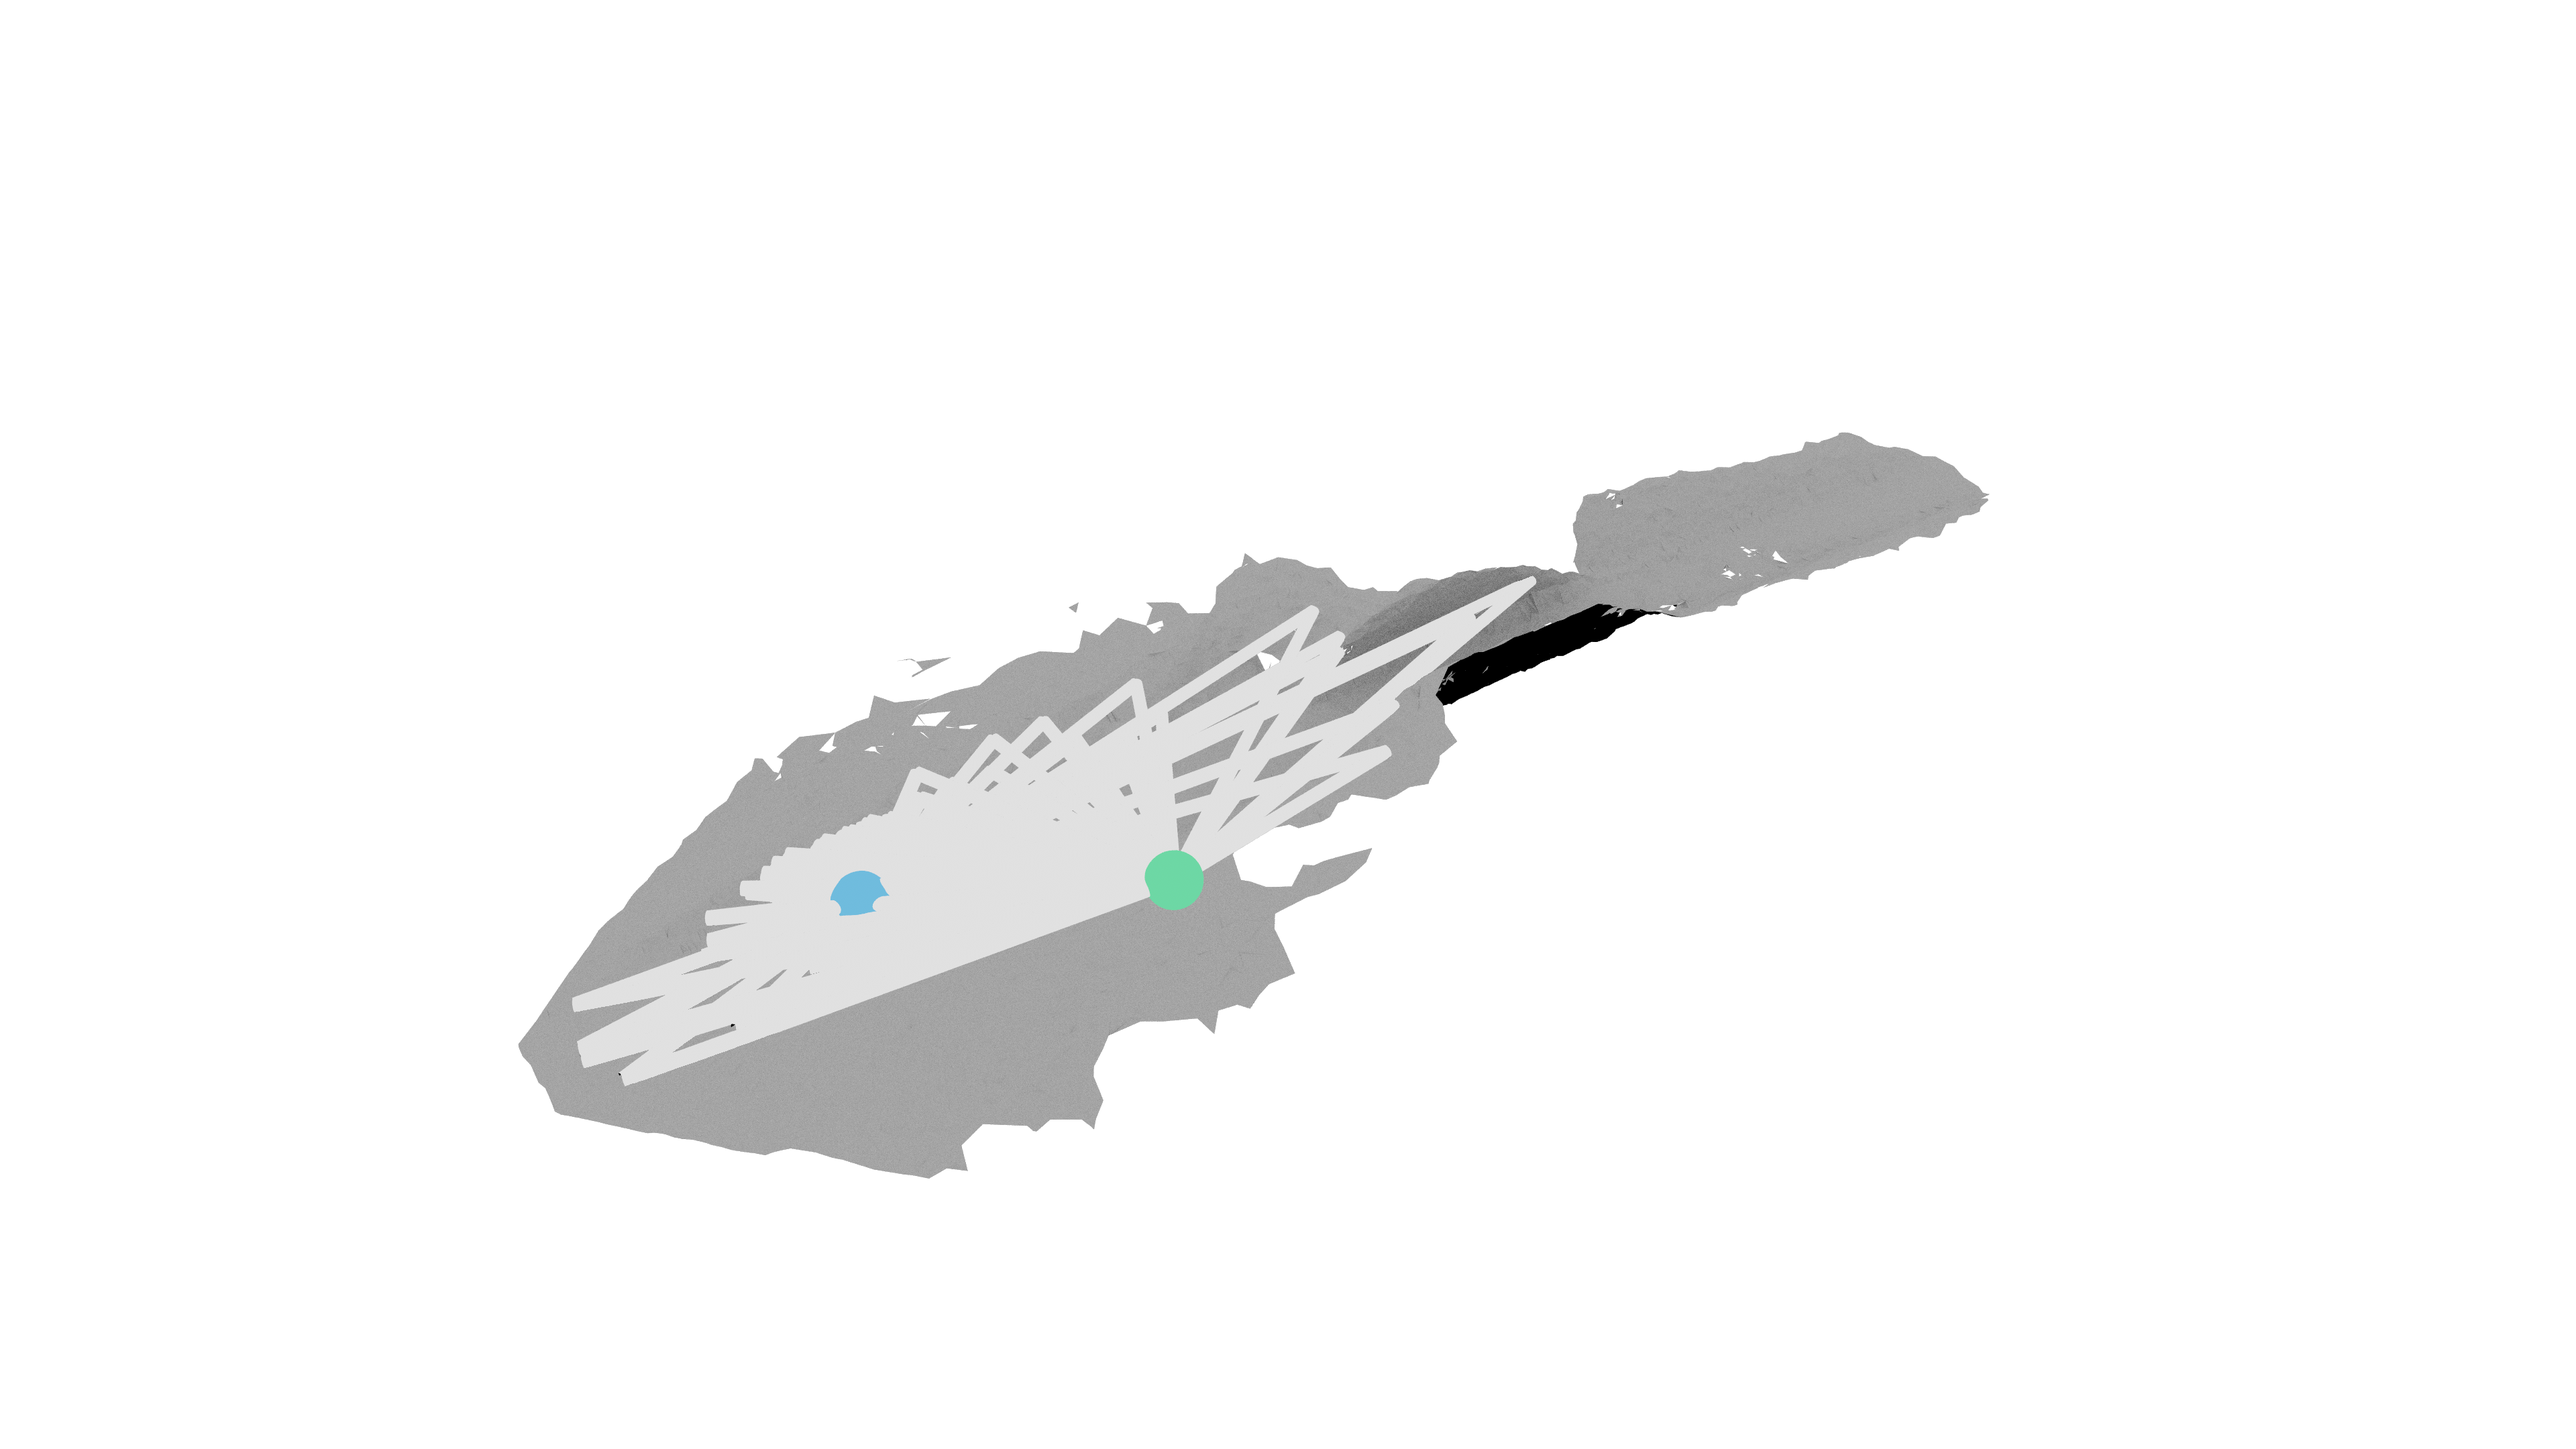
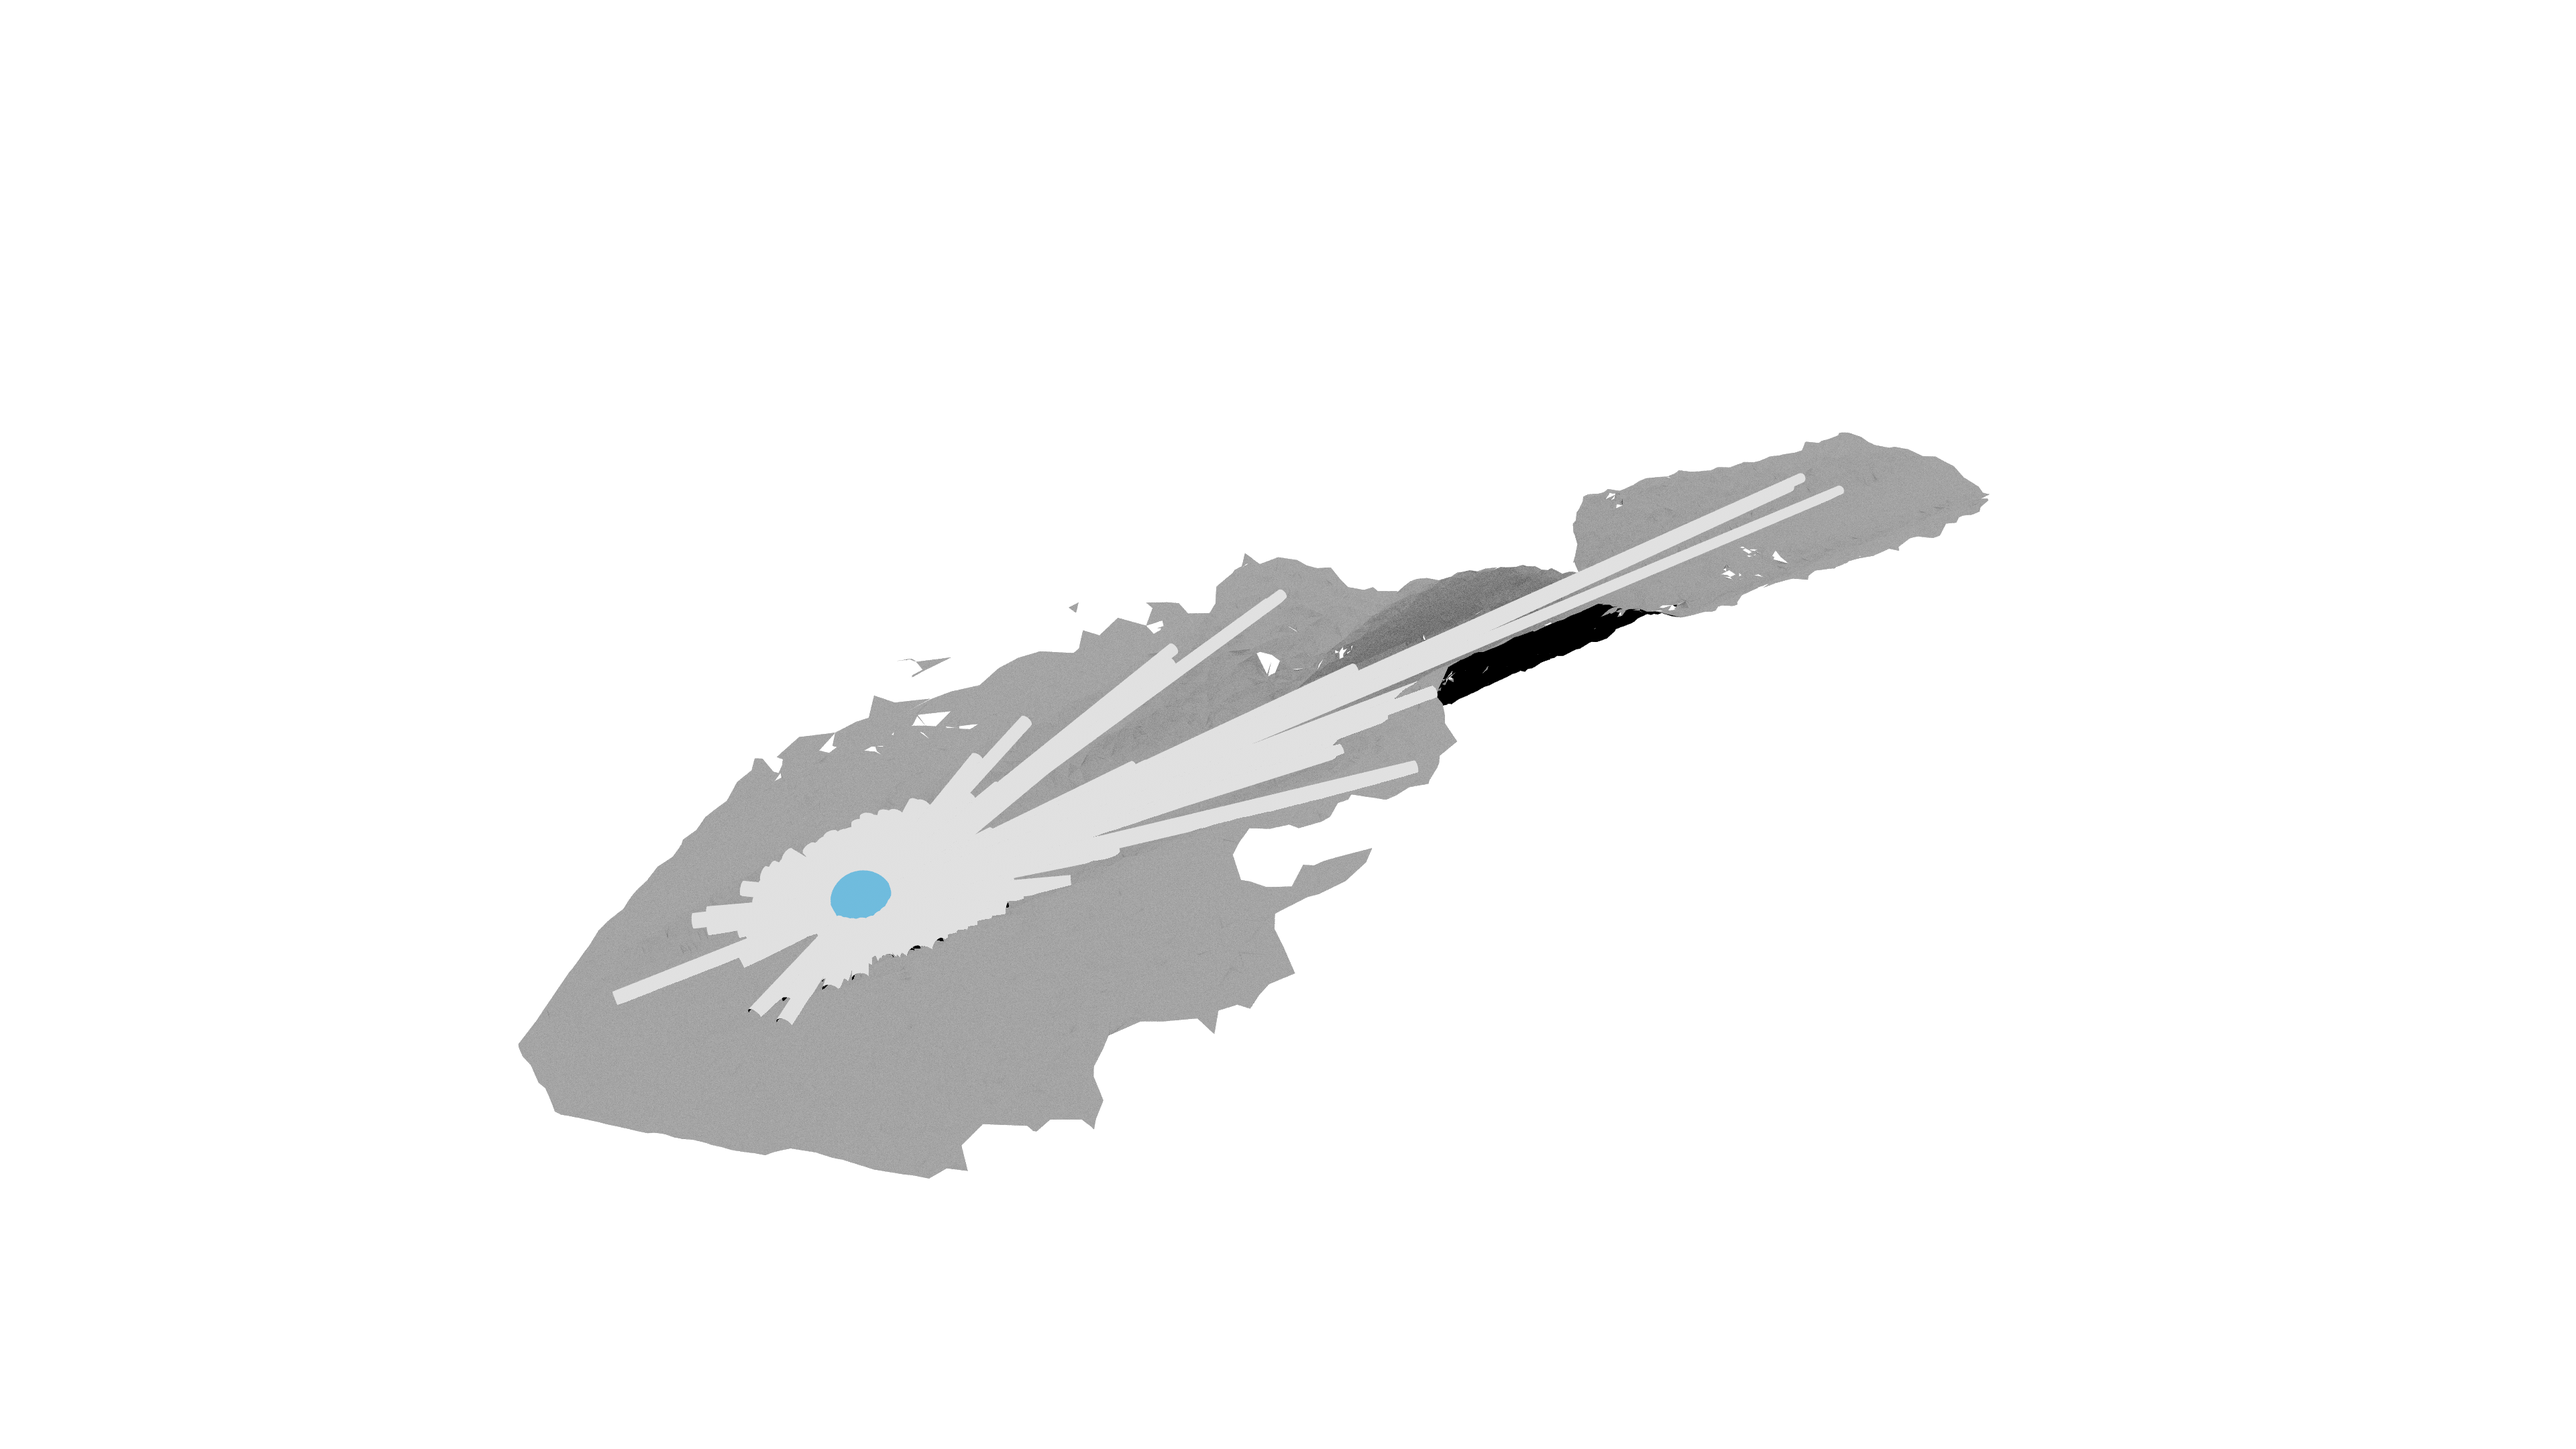
Utilize AntennaArray instead of PlanarArray

Changed region(s): [[0.2188, 0.3102, 0.7188, 0.7444]]

diff --git a/sionna_model.py b/sionna_model.py
@@ -30,7 +30,7 @@ IMAGE_FOLDER = f"images/{SCENE_NAME}"
 
 
 # Import Sionna RT components
-from sionna.rt import load_scene, Transmitter, Receiver, PlanarArray, Camera
+from sionna.rt import load_scene, Transmitter, Receiver, PlanarArray, Camera, AntennaArray, Antenna
 
 import numpy as np
 
@@ -77,20 +77,26 @@ for i in range(len(positions)):
     scene = load_scene(f"models/{SCENE_NAME}.xml")
     scene.frequency = 2.462e9
     scene.objects['urban_canyon_take2_3_cropped_outliers_cropped_mesh'].material = "concrete"
-    scene.tx_array = PlanarArray(num_rows=1,
-                            num_cols=1, #2,
-                            vertical_spacing=0.5, #0.7,
-                            horizontal_spacing=0.5,
-                            pattern="dipole", #"tr38901",
-                            polarization="V") #"VH")
+    # scene.tx_array = PlanarArray(num_rows=1,
+    #                         num_cols=1, #2,
+    #                         vertical_spacing=0.5, #0.7,
+    #                         horizontal_spacing=0.5,
+    #                         pattern="dipole", #"tr38901",
+    #                         polarization="V") #"VH")
 
-    # Configure antenna array for all receivers
-    scene.rx_array = PlanarArray(num_rows=1,
-                            num_cols=1,
-                            vertical_spacing=0.5,
-                            horizontal_spacing=0.5,
-                            pattern="dipole",
-                            polarization="V") #"cross")
+    # # Configure antenna array for all receivers
+    # scene.rx_array = PlanarArray(num_rows=1,
+    #                         num_cols=1,
+    #                         vertical_spacing=0.5,
+    #                         horizontal_spacing=0.5,
+    #                         pattern="dipole",
+    #                         polarization="V") #"cross")
+    
+    RelativeAtennas = AntennaArray(antenna=Antenna("dipole", "V"), 
+                        positions=tf.Variable([[0.0,0.0,0.0], [0.0, 1.0, 0.0], [0.0, 2.0, 0.0], [0.0, 3.0, 0.0]]))
+    
+    scene.tx_array = RelativeAtennas 
+    scene.rx_array = RelativeAtennas
 
     # Create transmitter
     tx = Transmitter(name="tx",
